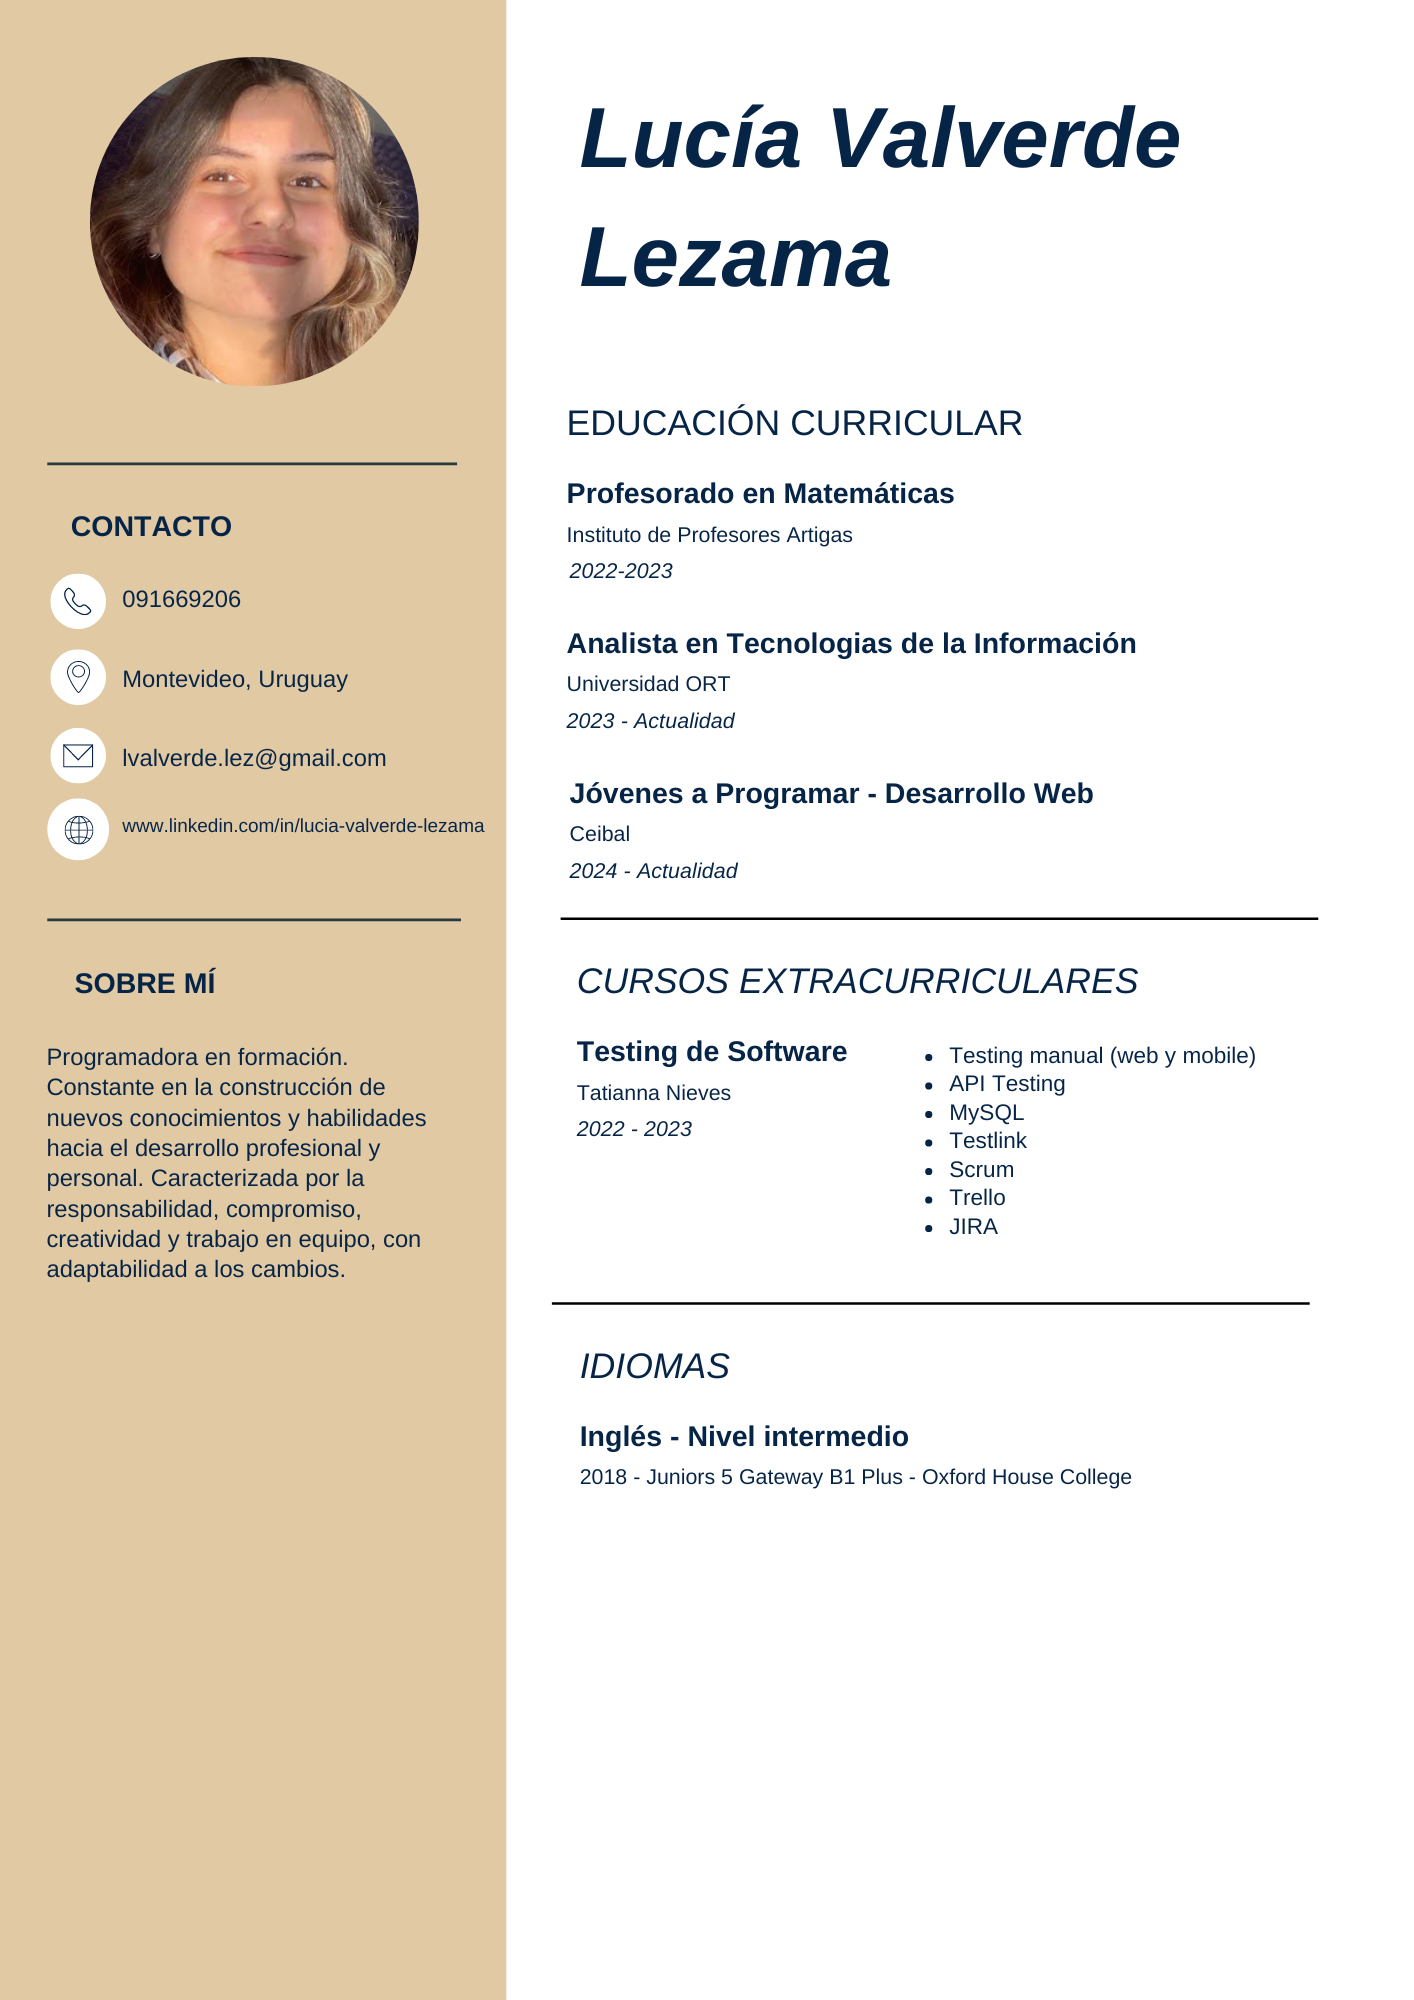
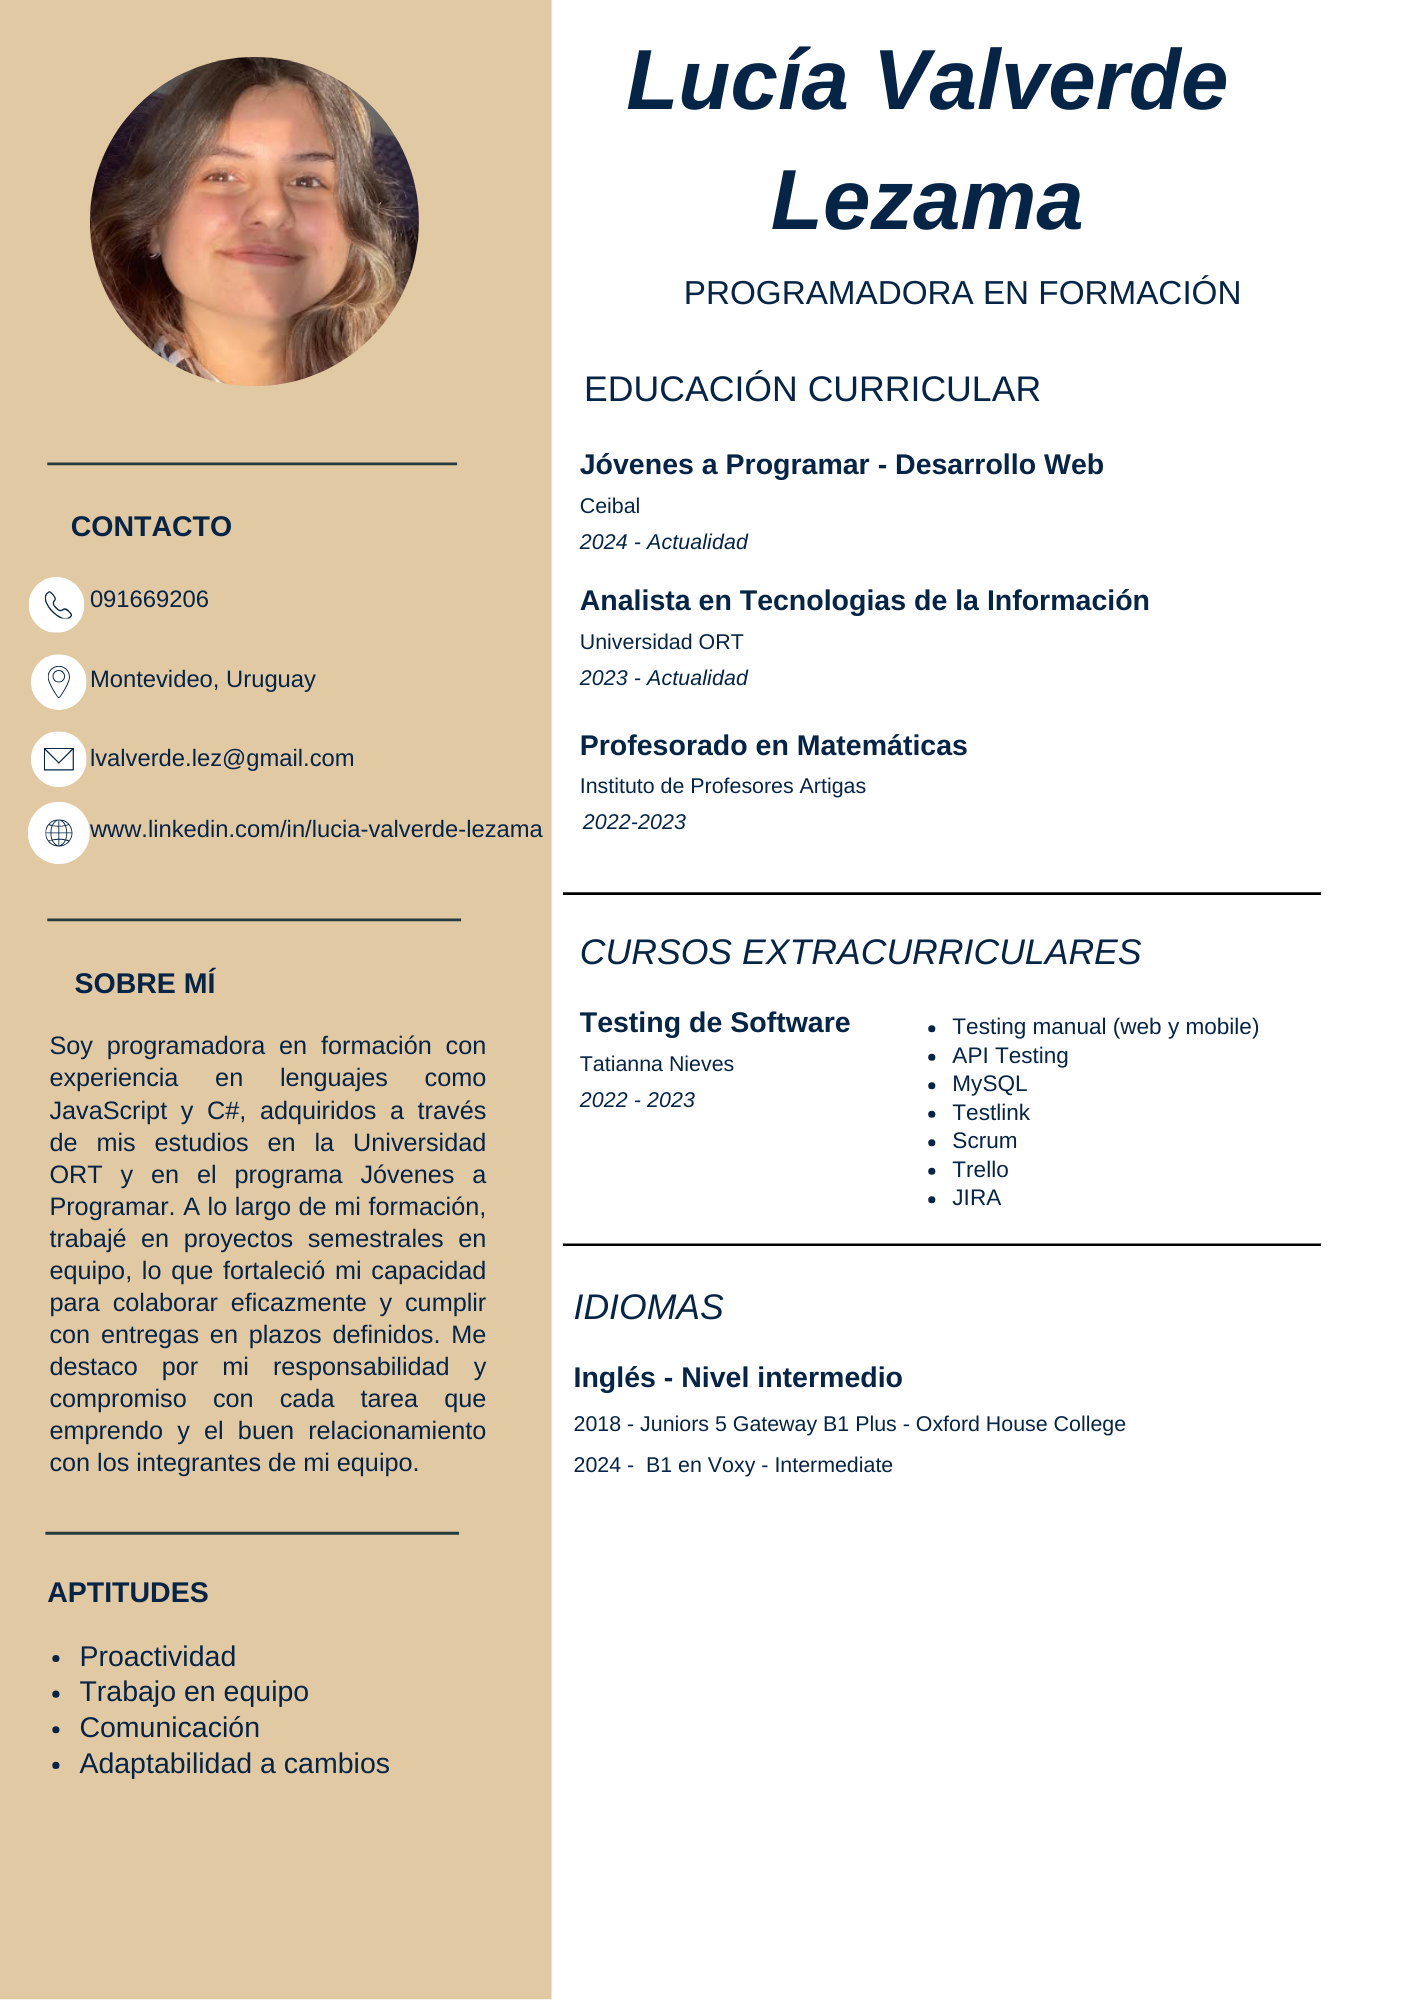
Correccion de errores

Changed region(s): [[0.0, 0.0, 0.9024, 1.0], [0.0311, 0.775, 0.2801, 0.899]]

diff --git a/css/styles.css b/css/styles.css
@@ -7,6 +7,8 @@ body{
     font-family: 'Times New Roman', Times, serif;
     background-color: #000000;
     font-size: 15px;
+    height: 100%;
+    width: 100%;
 }
 
 h2 {
@@ -15,6 +17,29 @@ h2 {
     font-size: 3rem;
 }
 
+
+@media (min-width: 1500px) {
+    html, body {
+        height: 100%;
+        margin: 0;
+        padding: 0;
+        overflow: hidden;
+    }
+    
+    main {
+        height: 100vh;
+    }
+    
+    #Pagina > div {
+        min-height: 100vh; 
+        display: flex;
+        flex-direction: column;
+        justify-content: center; 
+        padding: 0;
+        margin: 0;
+        overflow: hidden;
+    }
+}
 
 /****************************************Header****************************************/
 
@@ -63,7 +88,7 @@ header{
     background-repeat: no-repeat;
     background-size: cover;
     background-position: center;
-    height: 97vh;
+    height: 95vh;
     margin: 10px;
 }
 
@@ -109,16 +134,27 @@ header{
     background-image: linear-gradient(to right, rgb(5, 5, 5), rgb(17, 17, 17), rgb(7, 7, 7));
 }
 
-#SobreMi article {
-    border: solid 1px white;
-    border-radius: 20px;
-    background-color: rgb(32, 81, 86);
-    transition: transform 0.3s ease;
+@media (min-width: 992px) {
+    #SobreMi article {
+        border: solid 1px white;
+        border-radius: 20px;
+        background-color: rgb(32, 81, 86);
+        transition: transform 0.3s ease;
+    }
+    
+    #SobreMi article:hover {
+        transform: scale(1.03); 
+        background-color: rgb(99, 163, 170);
+    }
 }
 
-#SobreMi article:hover {
-    transform: scale(1.03); 
-    background-color: rgb(99, 163, 170);
+@media (max-width: 992px) {
+    #SobreMi article {
+        border: solid 1px white;
+        border-radius: 20px;
+        background-color: rgb(99, 163, 170);
+        transition: transform 0.3s ease;
+    }
 }
 
 #SobreMi article div{

diff --git a/index.html b/index.html
@@ -87,18 +87,16 @@
             <div id="Curriculum">
                 <h2>¡Curriculum Vitae!</h2>
                 <figure>
-                    <img src="img/Curriculum/Curriculum.png" alt="">
-                    <h3 style="color: white; text-align: center; margin-top: 5px;">Escolaridad Actual:</h3>
-                    <img src="img/Curriculum/EscolaridadORT.jpg" alt="">
-                    <h3 style="color: white; text-align: center; margin-top: 5px;">Certificado de aprobación Fase 1(Jap):</h3>
-                    <img src="img/Curriculum/JapFase1.jpg" alt="">
+                    <img src="img/Curriculum/Curriculum.png" alt="" class="mb-1">
+                    <img src="img/Curriculum/EscolaridadORT.png" alt="" class="mb-1">
+                    <img src="img/Curriculum/JapFase1.png" alt="">
                 </figure>
             </div>
 
             <div id="Portafolio">
                 <section class="row d-flex justify-content-center">
                     <h2>¡Portafolio!</h2>
-                    <a href="https://luciavalverdecp.github.io/ObligatorioLuciaValverde2023/" target="_blank" class="m-3 text-center">
+                    <a href="https://luciavalverdecp.github.io/ObligatorioLuciaValverde2023/" target="_blank" class="m-3 text-center d-none d-lg-block">
                         <article>
                             <figure>
                                 <img src="img/Portafolio/Js.png" alt="">
